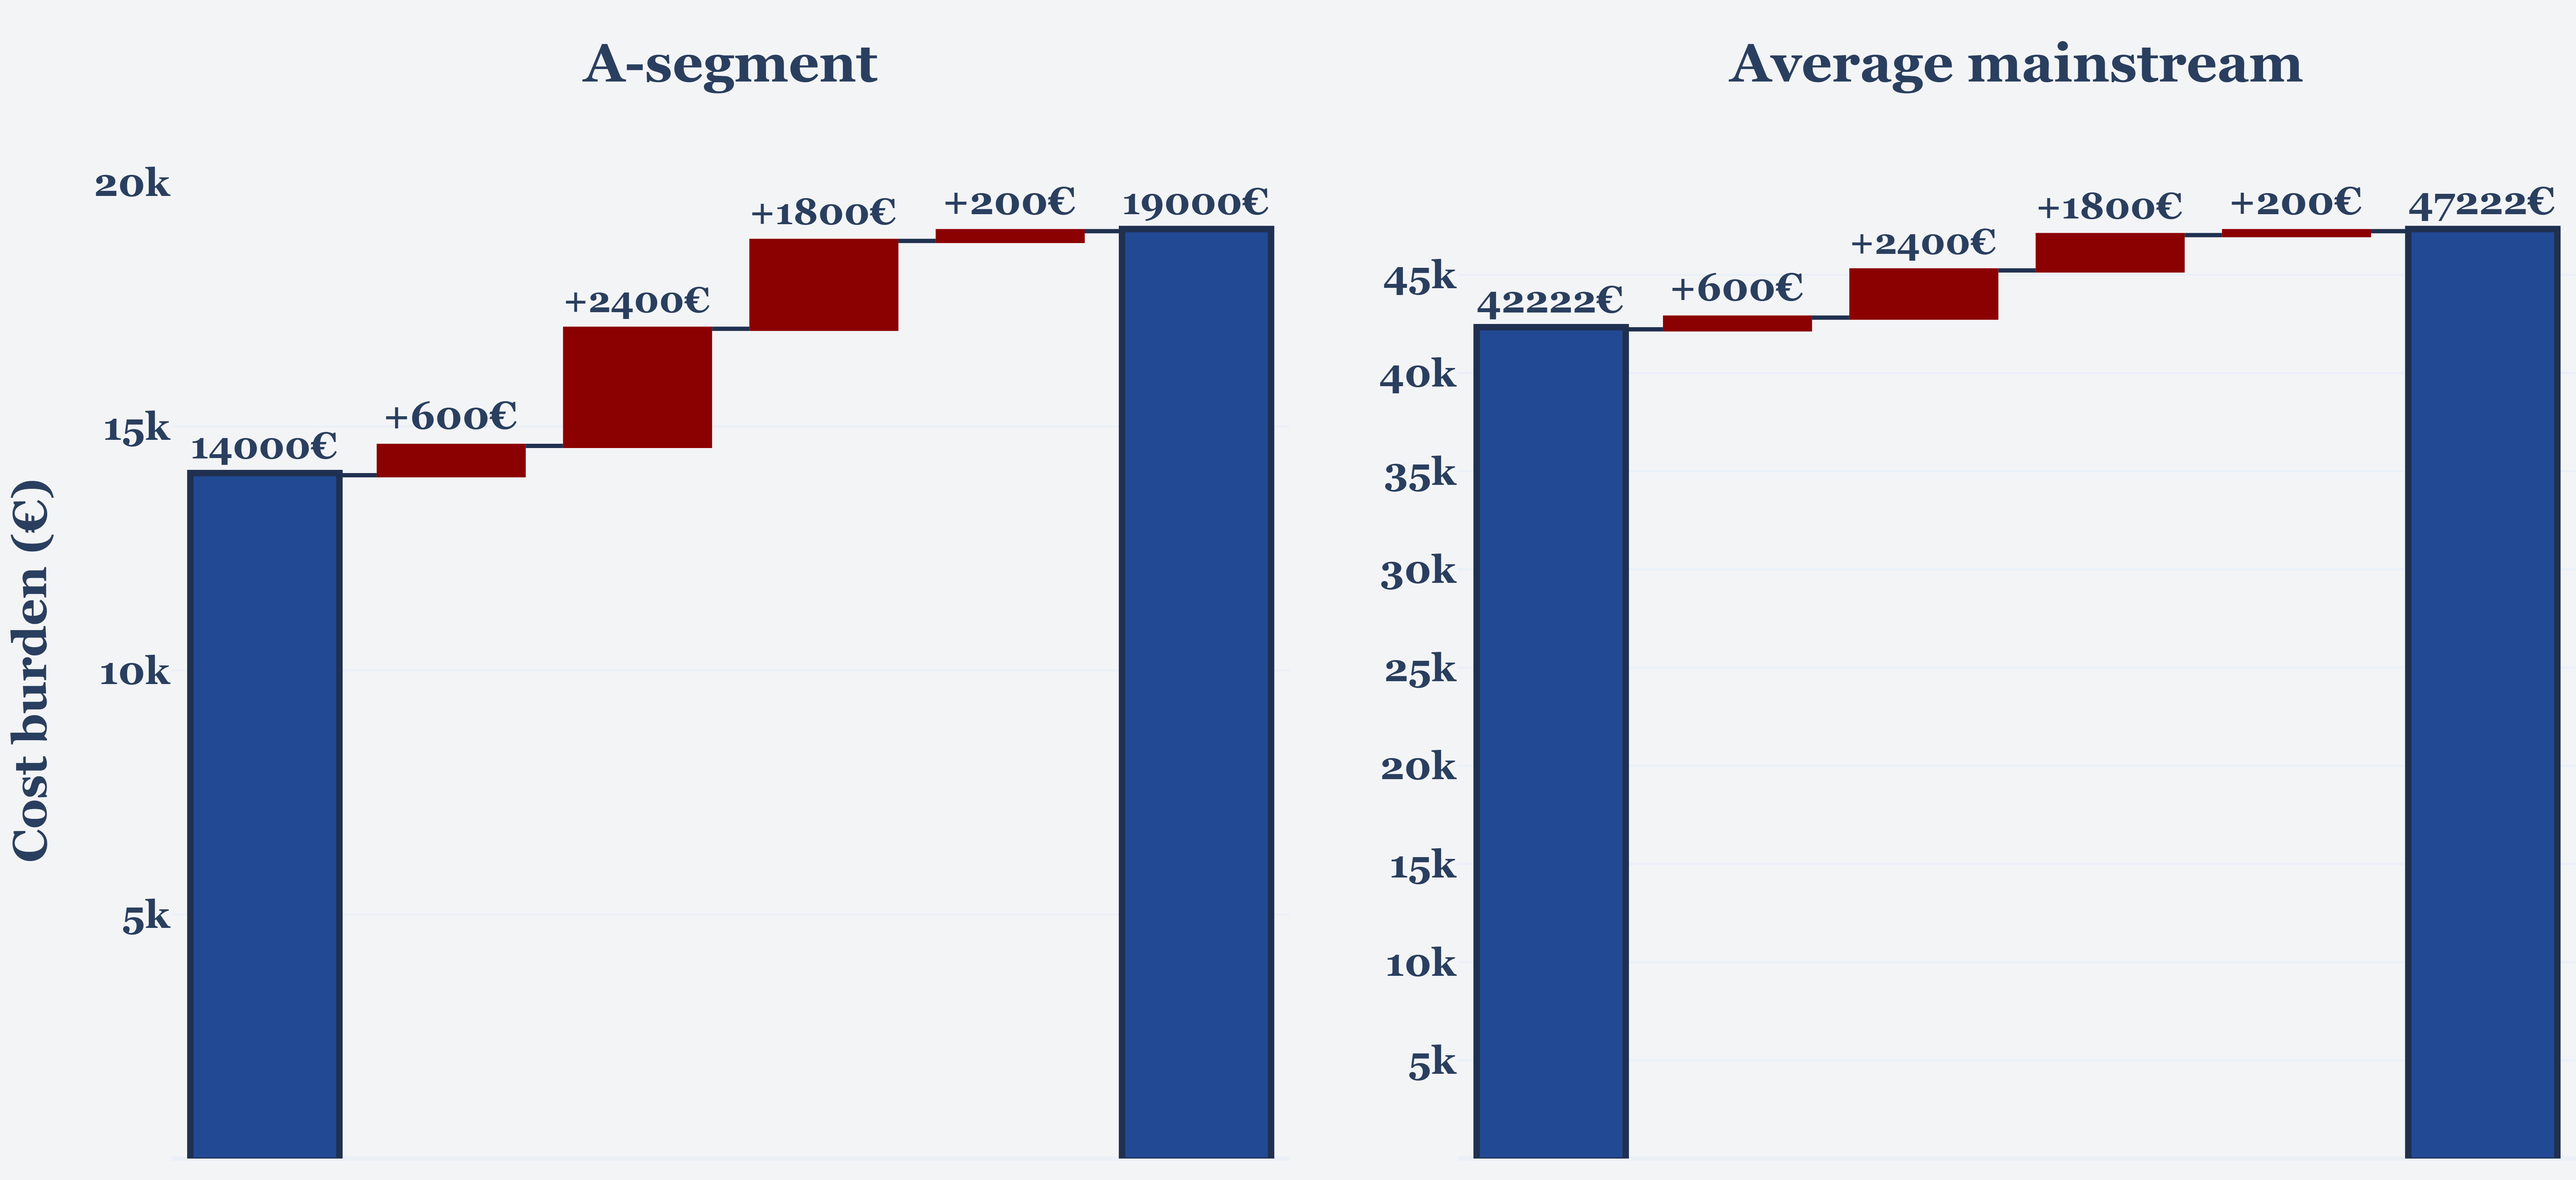
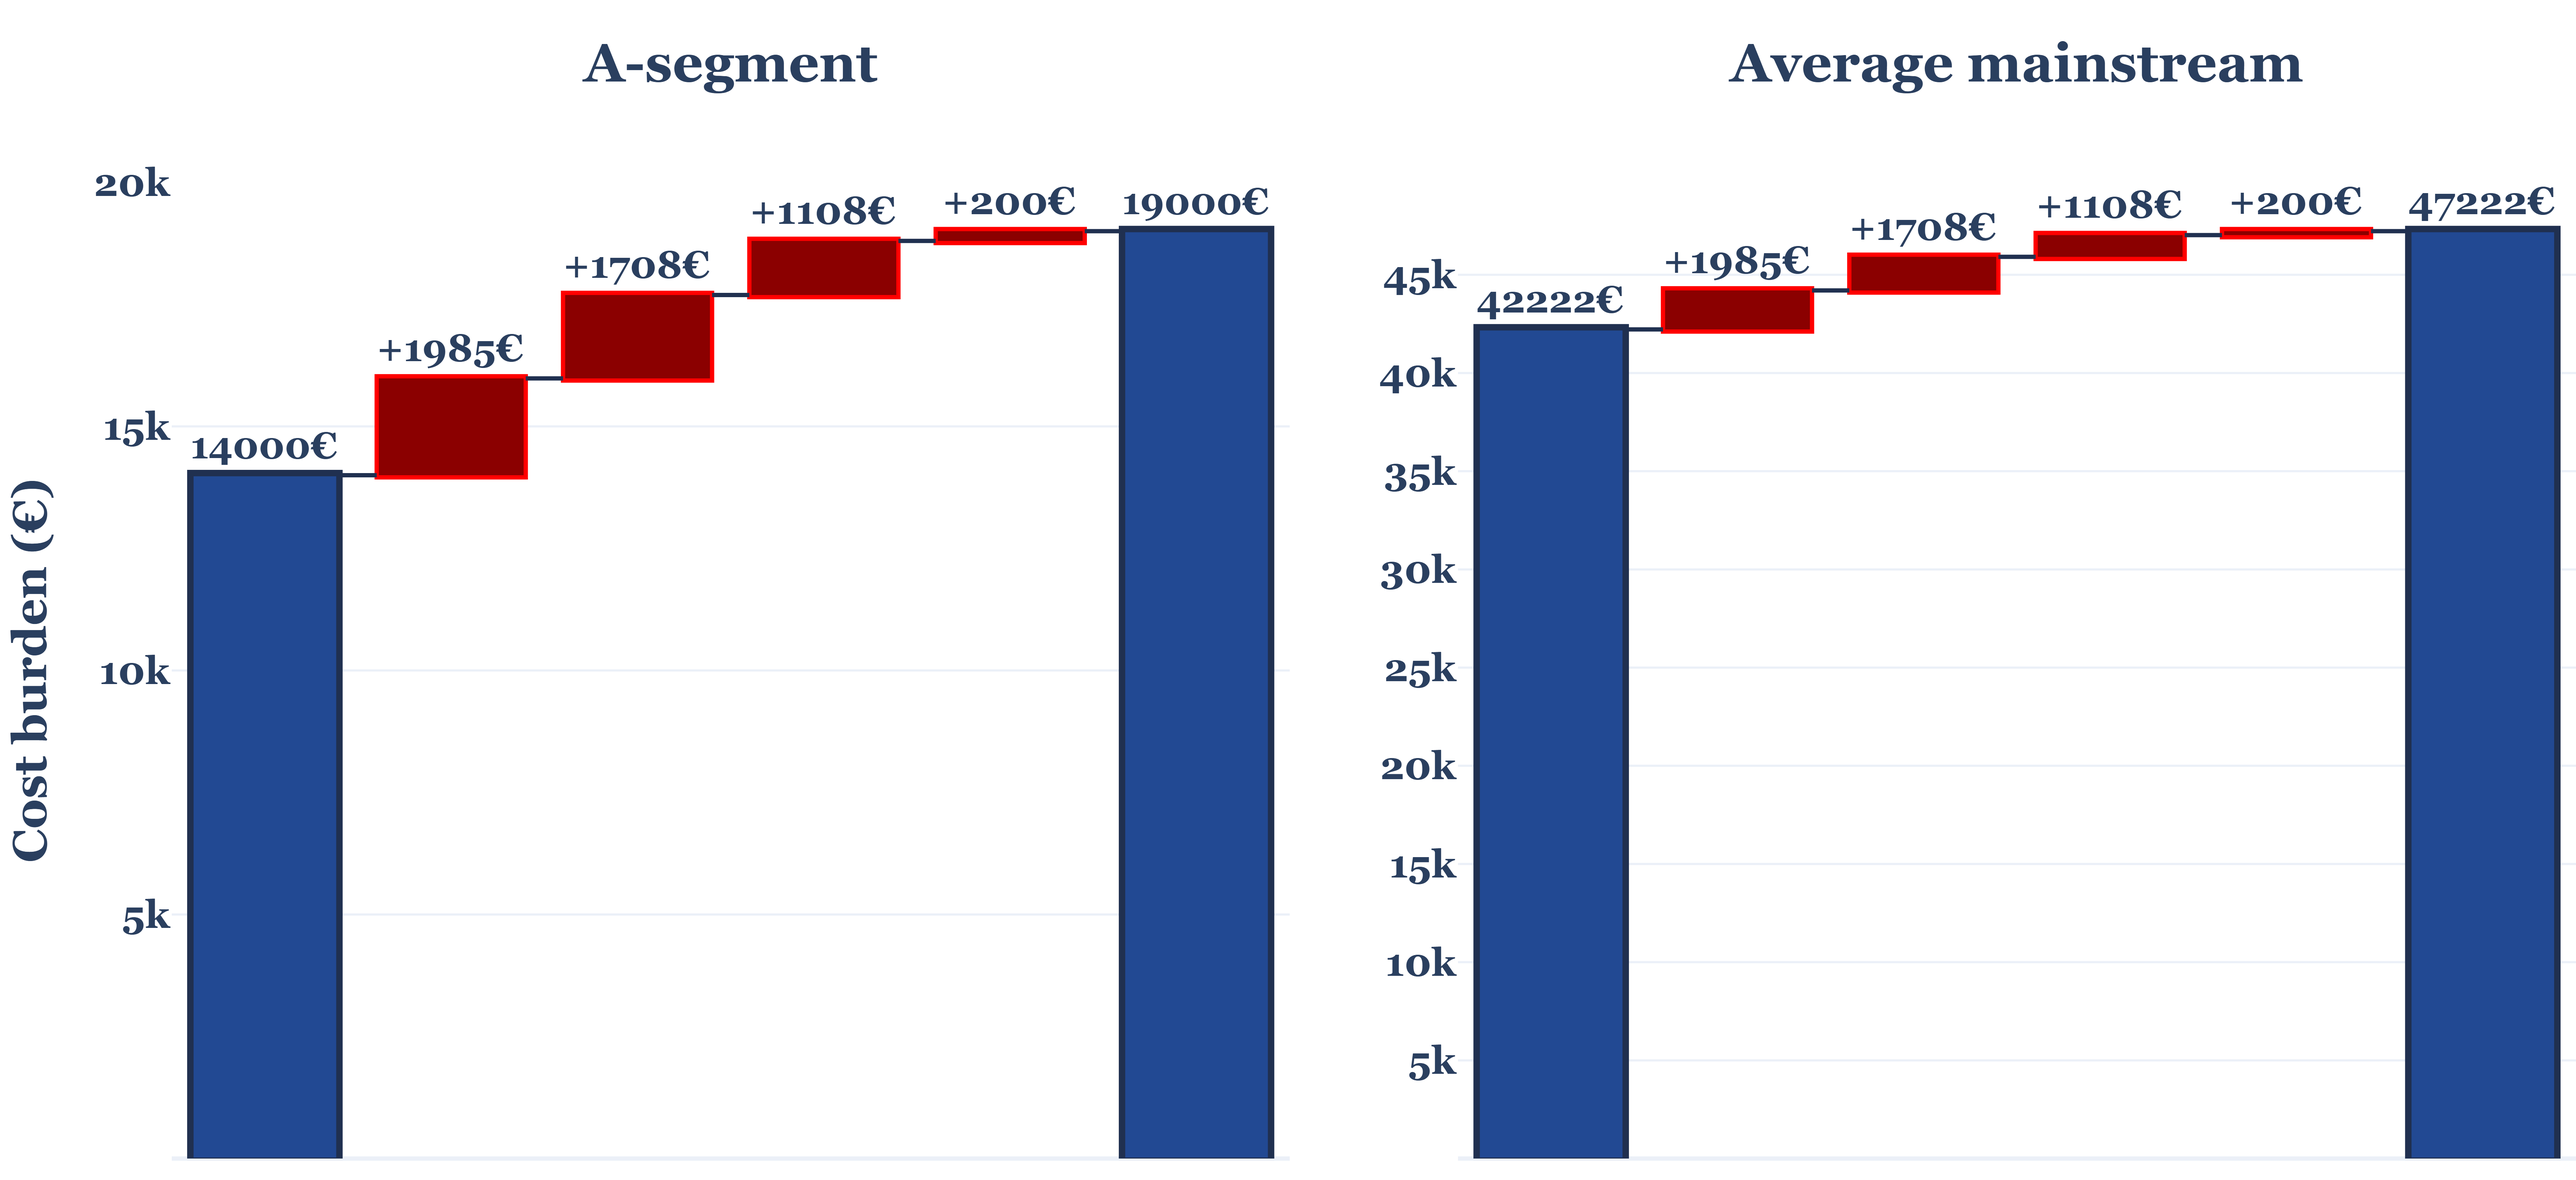
Created waterfall

diff --git a/round2/histogram.py b/round2/histogram.py
@@ -63,11 +63,11 @@ class Plot:
 
 
     def create_figure(self, fig_title, yaxis_title, xaxis_title):
-        fig = make_subplots(rows = 2, shared_xaxes = True).update_layout(template ="plotly_white", title = fig_title, title_x = 0.5, title_y = 0.94, title_font_weight = 600)
-        fig.update_layout(width = 1000, height = 500)
+        fig = make_subplots(rows = 2, shared_xaxes = True, vertical_spacing = 0.00, row_heights=[0.3,0.7]).update_layout(template ="plotly_white", title = fig_title, title_x = 0.5, title_y = 0.94, title_font_weight = 600)
+        fig.update_layout(width = 800, height = 900)
         fig.update_layout(font_family = "Georgia", font_weight = 600, font_size = 18)
-        fig.update_layout(paper_bgcolor = "#F3F4F6")
-        fig.update_layout(plot_bgcolor = "#F3F4F6")
+        fig.update_layout(paper_bgcolor = "#FFFFFF")
+        fig.update_layout(plot_bgcolor = "#FFFFFF")
         fig.update_yaxes(ticksuffix = " ", title = yaxis_title, title_standoff = 20)
         fig.update_layout(margin=dict(t=0, b=65, l=0, r=0), showlegend = False)
         fig.update_xaxes(title = xaxis_title, title_standoff = 20, row = 2)
@@ -76,14 +76,14 @@ class Plot:
     def plot_data(self, fig, dataset):
         fig.add_trace(go.Histogram(x = dataset, marker_color = "#2A3F5F"), row = 2, col = 1)
         fig.add_trace(go.Box(x=dataset, marker_color = "#8B0000"), row = 1, col = 1)
-        fig.add_shape(type="line", x0=15000, y0=0, x1=15000, y1=400, line=dict(color="#ce1719", width=3, dash="dash"), row = 2, col = 1)
-        fig.add_annotation(x=16200, y=380, text='"Affordable"', showarrow=False, font = dict(size = 16, color = "#ce1719"), row = 2, col = 1)
-        fig.add_annotation(x=13500, y=190, text="72%", showarrow=False, font = dict(size = 37, color = "#ce1719"), row = 2, col = 1)
-        fig.add_annotation(x=15700, y=80, text="28%", showarrow=False, font = dict(size = 18, color = "#ce1719"), row = 2, col = 1)
+        fig.add_shape(type="line", x0=15000, y0=0, x1=15000, y1=400, line=dict(color="#ce1719", width=4, dash="dash"), row = 2, col = 1)
+        fig.add_annotation(x=16800, y=380, text='"Affordable"', showarrow=False, font = dict(size = 22, color = "#ce1719"), row = 2, col = 1)
+        fig.add_annotation(x=13500, y=190, text="72%", showarrow=False, font = dict(size = 50, color = "#ce1719"), row = 2, col = 1)
+        fig.add_annotation(x=15900, y=80, text="28%", showarrow=False, font = dict(size = 30, color = "#ce1719"), row = 2, col = 1)
 
         #fig.add_vline(x=15000, line_dash="dash", line_color = "#ce1719", line_width = 3)
         fig.update_yaxes(title_text = None, showticklabels=False, row = 1, col = 1)
-        fig.write_image("A-segment vehicle price simulation - Histogram.png", width = 1000, height = 500, scale = 6)
+        fig.write_image("A-segment vehicle price simulation - Histogram.png", width = 900, height = 900, scale = 6)
         #fig.show(renderer = "browser")
 
 

diff --git a/round2/waterfall2.py b/round2/waterfall2.py
@@ -1,0 +1,73 @@
+import plotly.graph_objects as go
+from plotly.subplots import make_subplots
+import pandas as pd
+from plotly.colors import n_colors
+import statistics
+
+def plot(fig):
+
+    fig.add_trace(go.Waterfall(
+      measure = ["relative", "relative", "total"],
+      x = ["Current Revenues", "Current Cost", ["Profit"]],
+           y = [1349190000, -781110000, 56808000],
+           connector = {"line": {"color" : "#203050"}},
+           text = ["1.3B€", "-781M€", "568M€"],
+                      textposition="outside",
+           decreasing = {"marker":{"color":"Maroon", "line":{"color":"red", "width":2}}},
+            increasing = {"marker":{"color":"green", "line":{"color":"limegreen", "width":2}}},
+             totals = {"marker":{"color":"#224993", "line":{"color":"#203050", "width":3}}}), row = 1, col = 1)
+    
+
+    fig.add_trace(go.Waterfall(
+      measure = ["relative", "relative", "relative", "relative", "total"],
+      x = ["Current Revenues", "Loss Related To P Decrease", "Revenues Related To Q Increase", "Cost", ["Profit"]],
+           y = [1349190000, -284040000, 403635789, -832311947, 636473842],
+           connector = {"line": {"color" : "#203050"}},
+           text = ["1.3B€", "-284M€", "+404M€", "-832M€", "636M€"],
+                      textposition="outside",
+           decreasing = {"marker":{"color":"Maroon", "line":{"color":"red", "width":2}}},
+            increasing = {"marker":{"color":"green", "line":{"color":"limegreen", "width":2}}},
+             totals = {"marker":{"color":"#224993", "line":{"color":"#203050", "width":3}}}), row = 1, col = 2)
+    
+
+    fig.write_image("Cost_burden2.png", width = 1500, height = 700, scale = 6)
+
+    #fig.show(renderer = "browser")
+
+
+
+def create_figure():
+
+    fig = make_subplots(rows = 1, cols = 2, horizontal_spacing = 0.03, shared_yaxes= True, subplot_titles=("Profitability Pre JV", "Profitability Post JV")).update_layout(template ="plotly_white", title = "", title_x = 0.5, title_y = 0.98, title_font_weight = 600)
+    fig.update_layout(margin=dict(t=85, b=0, l=80, r=0))
+    fig.update_layout(width = 1200, height = 700)
+    fig.update_layout(font_family = "Georgia", font_weight = 600, font_size = 18, showlegend = False)
+    fig.update_yaxes(title_text = "Billions of €", row = 1, col =1)
+    fig.update_yaxes(title_text = None, row = 1, col =2, title_standoff = 20)
+    fig.update_xaxes(showticklabels = True)
+    #fig.update_yaxes(title_text = "", row = 1, col = 2)
+    fig.update_layout(paper_bgcolor = "#FFFFFF")
+    fig.update_layout(plot_bgcolor = "#FFFFFF")
+    fig.update_xaxes(tickprefix = " ")
+    fig.update_annotations(yshift=20)
+    fig.update_annotations(font_size=25)
+
+    
+
+
+    plot(fig)
+    
+
+
+
+
+def main():
+
+    create_figure()
+
+
+main()
+    
+
+
+

diff --git a/round2/waterfall.py b/round2/waterfall.py
@@ -11,12 +11,12 @@ def plot(fig):
       x = ["Affordable baseline", "Safety & ADAS", "CO2 comliance tech",
            "Euro 7 pollutant compliance",
            "eCall + telematics", ["End price"]],
-           y = [14000, 600, 2400, 1800, 200, 19000],
+           y = [14000, 1985, 1708, 1108, 200, 19000],
            connector = {"line": {"color" : "#203050"}},
-           text = ["14000€", "+600€", "+2400€", "+1800€", "+200€", "19000€"],
+           text = ["14000€", "+1985€", "+1708€", "+1108€", "+200€", "19000€"],
                       textposition="outside",
            decreasing = {"marker":{"color":"Maroon", "line":{"color":"red", "width":2}}},
-            increasing = {"marker":{"color":"#8b0000"}},
+            increasing = {"marker":{"color":"#8b0000", "line":{"color":"red", "width":2}}},
              totals = {"marker":{"color":"#224993", "line":{"color":"#203050", "width":3}}}), row = 1, col = 1)
     
 
@@ -25,12 +25,12 @@ def plot(fig):
       x = ["Affordable baseline", "Safety & ADAS", "CO2 comliance tech",
            "Euro 7 pollutant compliance",
            "eCall + telematics", ["End price"]],
-           y = [42222, 600, 2400, 1800, 200, 47222],
+           y = [42222, 1985, 1708, 1108, 200, 47222],
            connector = {"line": {"color" : "#203050"}},
-           text = ["42222€", "+600€", "+2400€", "+1800€", "+200€", "47222€"],
+           text = ["42222€", "+1985€", "+1708€", "+1108€", "+200€", "47222€"],
                       textposition="outside",
            decreasing = {"marker":{"color":"Maroon", "line":{"color":"red", "width":2}}},
-            increasing = {"marker":{"color":"#8b0000"}},
+            increasing = {"marker":{"color":"#8b0000", "line":{"color":"red", "width":2}}},
              totals = {"marker":{"color":"#224993", "line":{"color":"#203050", "width":3}}}), row = 1, col = 2)
     
 
@@ -50,8 +50,8 @@ def create_figure():
     fig.update_yaxes(title_text = None, row = 1, col =2, title_standoff = 20)
     fig.update_xaxes(showticklabels = False)
     #fig.update_yaxes(title_text = "", row = 1, col = 2)
-    fig.update_layout(paper_bgcolor = "#F3F4F6")
-    fig.update_layout(plot_bgcolor = "#F3F4F6")
+    fig.update_layout(paper_bgcolor = "#FFFFFF")
+    fig.update_layout(plot_bgcolor = "#FFFFFF")
     fig.update_xaxes(tickprefix = " ")
     fig.update_annotations(yshift=40)
     fig.update_annotations(font_size=25)

diff --git a/round2/monte_carlo.py b/round2/monte_carlo.py
@@ -61,11 +61,11 @@ class Plot:
         fig = go.Figure().update_layout(template ="plotly_white", title = fig_title, title_x = 0.5, title_y = 0.94, title_font_weight = 600)
         fig.update_layout(width = 1000, height = 500)
         fig.update_layout(font_family = "Georgia", font_weight = 600, font_size = 18)
-        fig.update_layout(paper_bgcolor = "#F3F4F6")
-        fig.update_layout(plot_bgcolor = "#F3F4F6")
-        fig.update_yaxes(ticksuffix = " ", title = yaxis_title, range = [0,20000], title_standoff = 20)
+        fig.update_layout(paper_bgcolor = "#FFFFFF")
+        fig.update_layout(plot_bgcolor = "#FFFFFF")
+        fig.update_yaxes(ticksuffix = " ", title = yaxis_title, range = [0,20000], title_standoff = 20, showgrid = True, showline = False, linecolor = "#FFFFFF", zeroline = False)
         fig.update_layout(margin=dict(t=0, b=65, l=80, r=0))
-        fig.update_xaxes(title = xaxis_title, title_standoff = 20)
+        fig.update_xaxes(title = xaxis_title, title_standoff = 20, showgrid = True, showline = False, linecolor = "#FFFFFF", zeroline = False)
         self.plot_data(self.x_data, self.y_data, 3, fig)
 
     def find_median_values(self, data):
@@ -85,7 +85,7 @@ class Plot:
         fig.add_trace(go.Scatter(x = x_data, y = median_values, line = dict(width = line_width, color = "#8B0000"), opacity = 1, showlegend=False))
         fig.add_hline(y=15000, line_dash="dash", line_color = "#8B0000")
         fig.add_annotation(x=8, y=15800, text='"Affordable"', showarrow=False, font = dict(size = 16, color = "#8B0000"))
-        fig.write_image("A-segment vehicle price simulation.png", width = 1000, height = 500, scale = 6)
+        fig.write_image("A-segment vehicle price simulation.png", width = 1200, height = 500, scale = 6)
         #fig.show(renderer = "browser")
 
 
